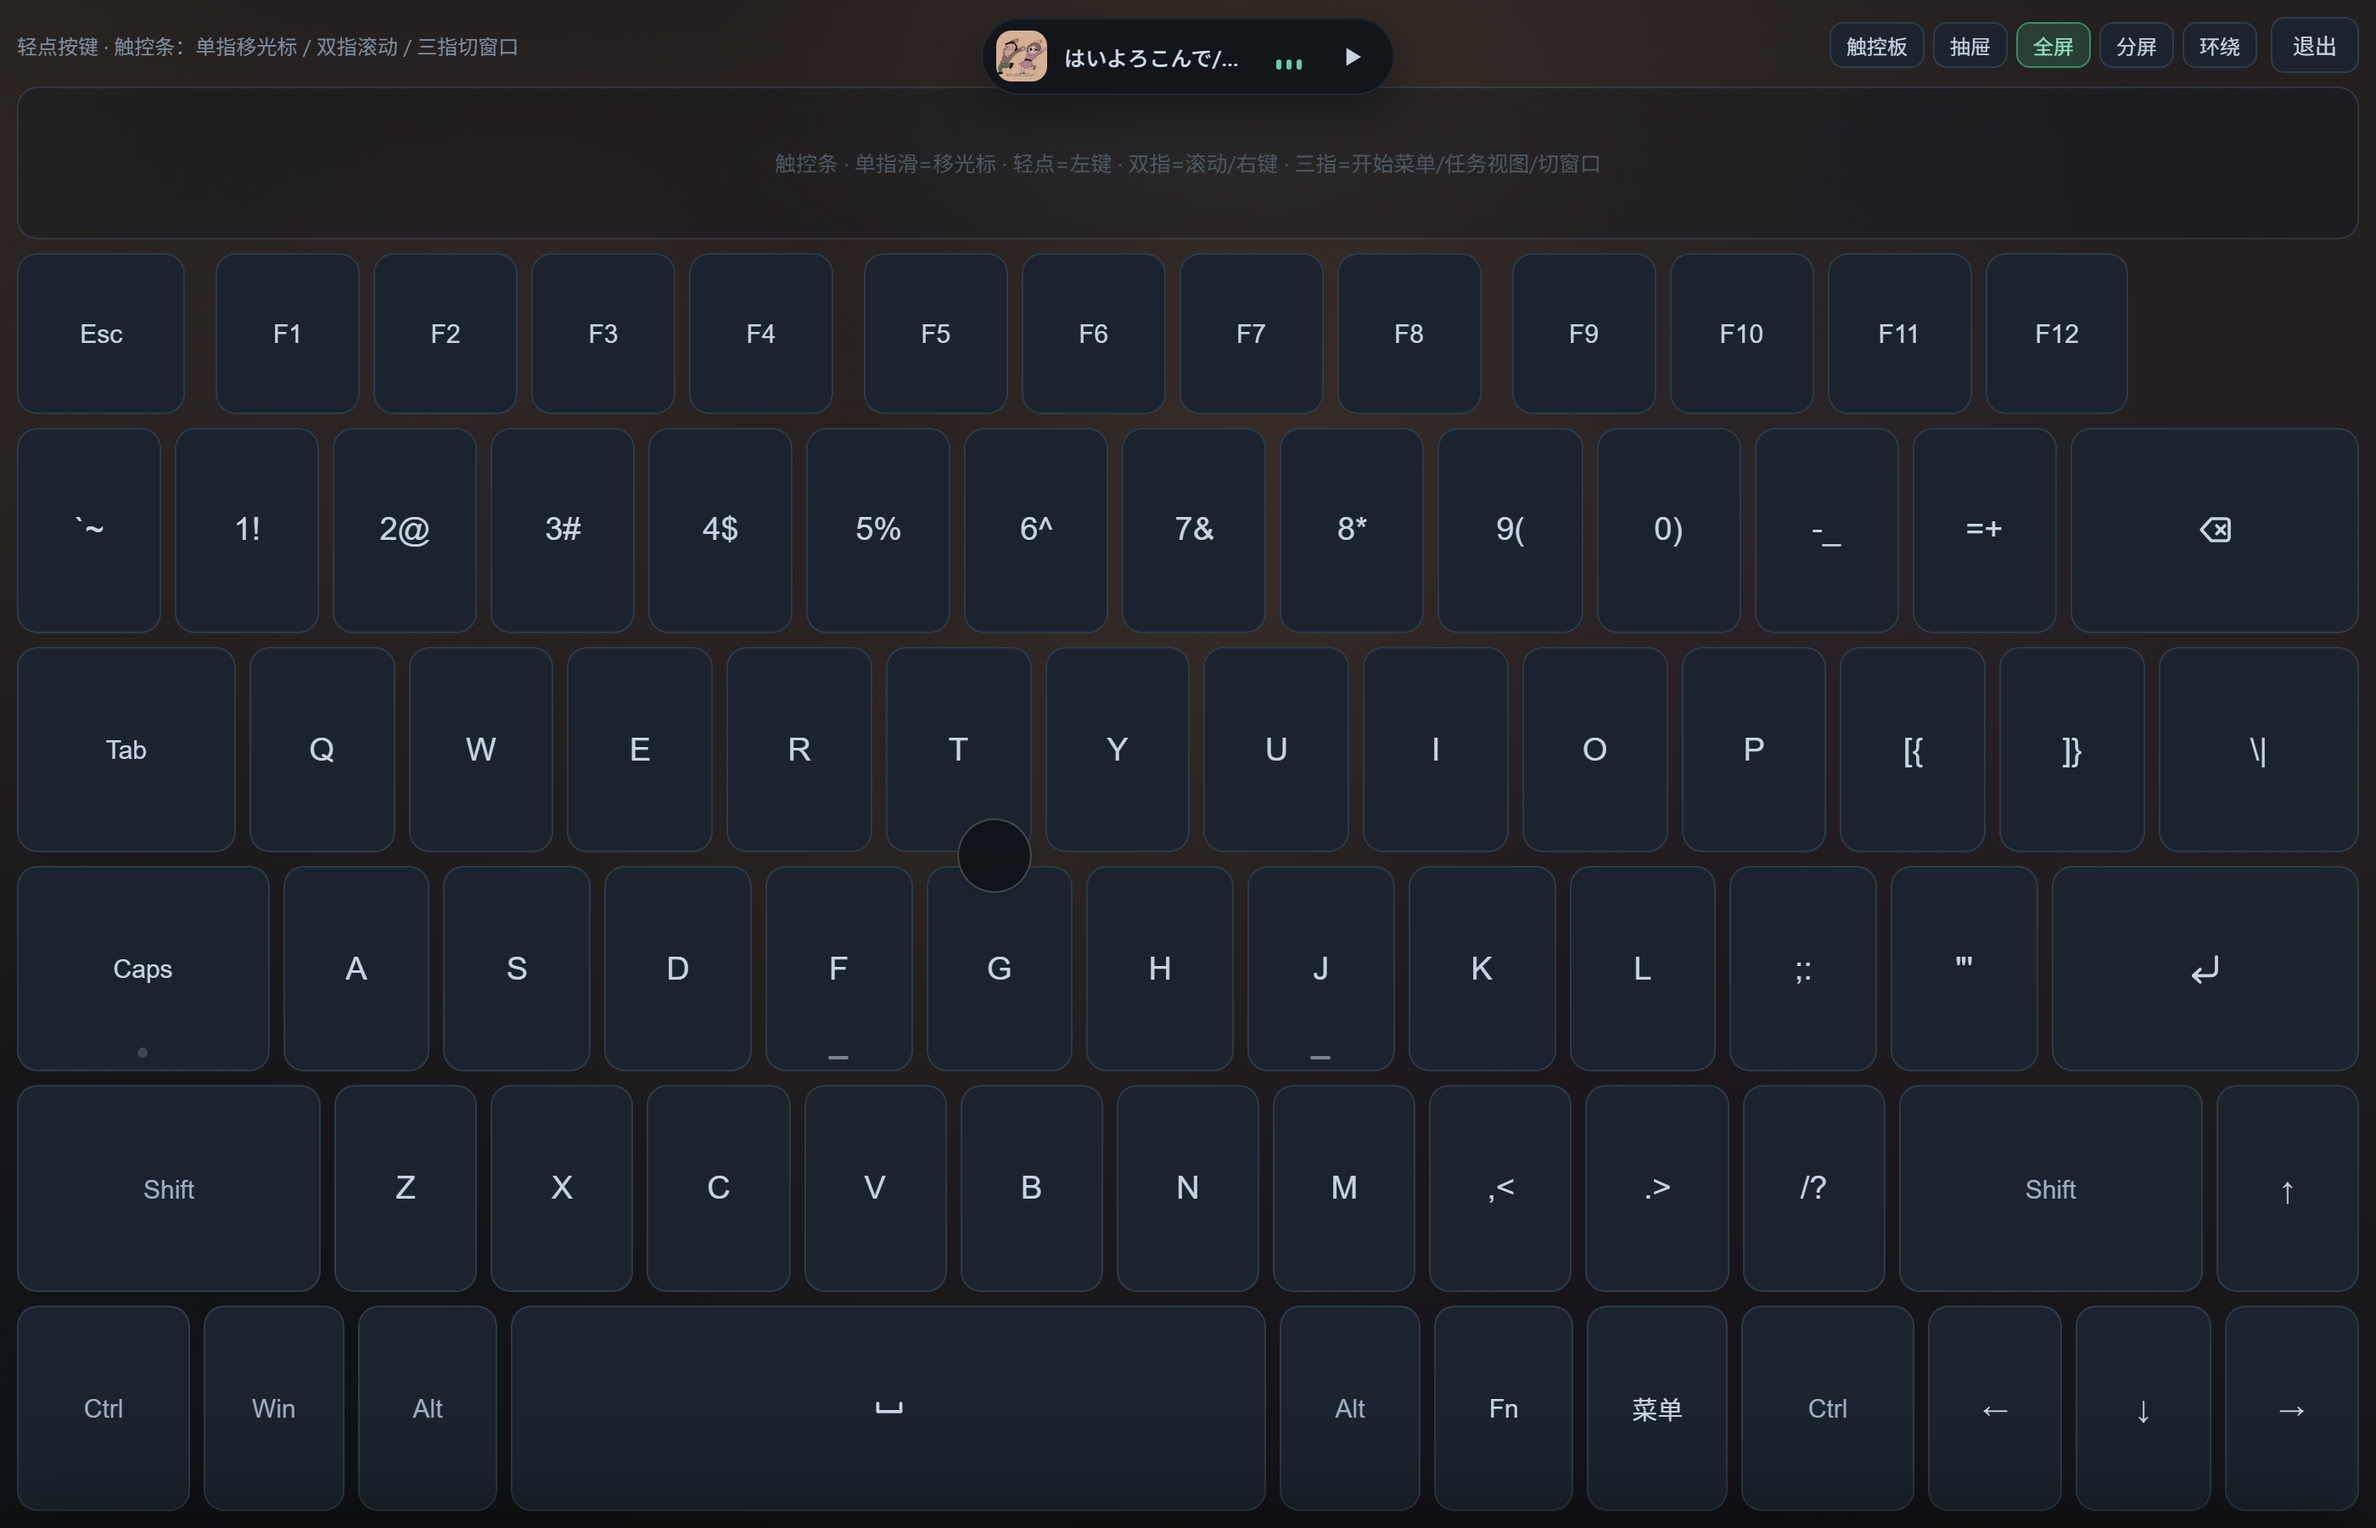
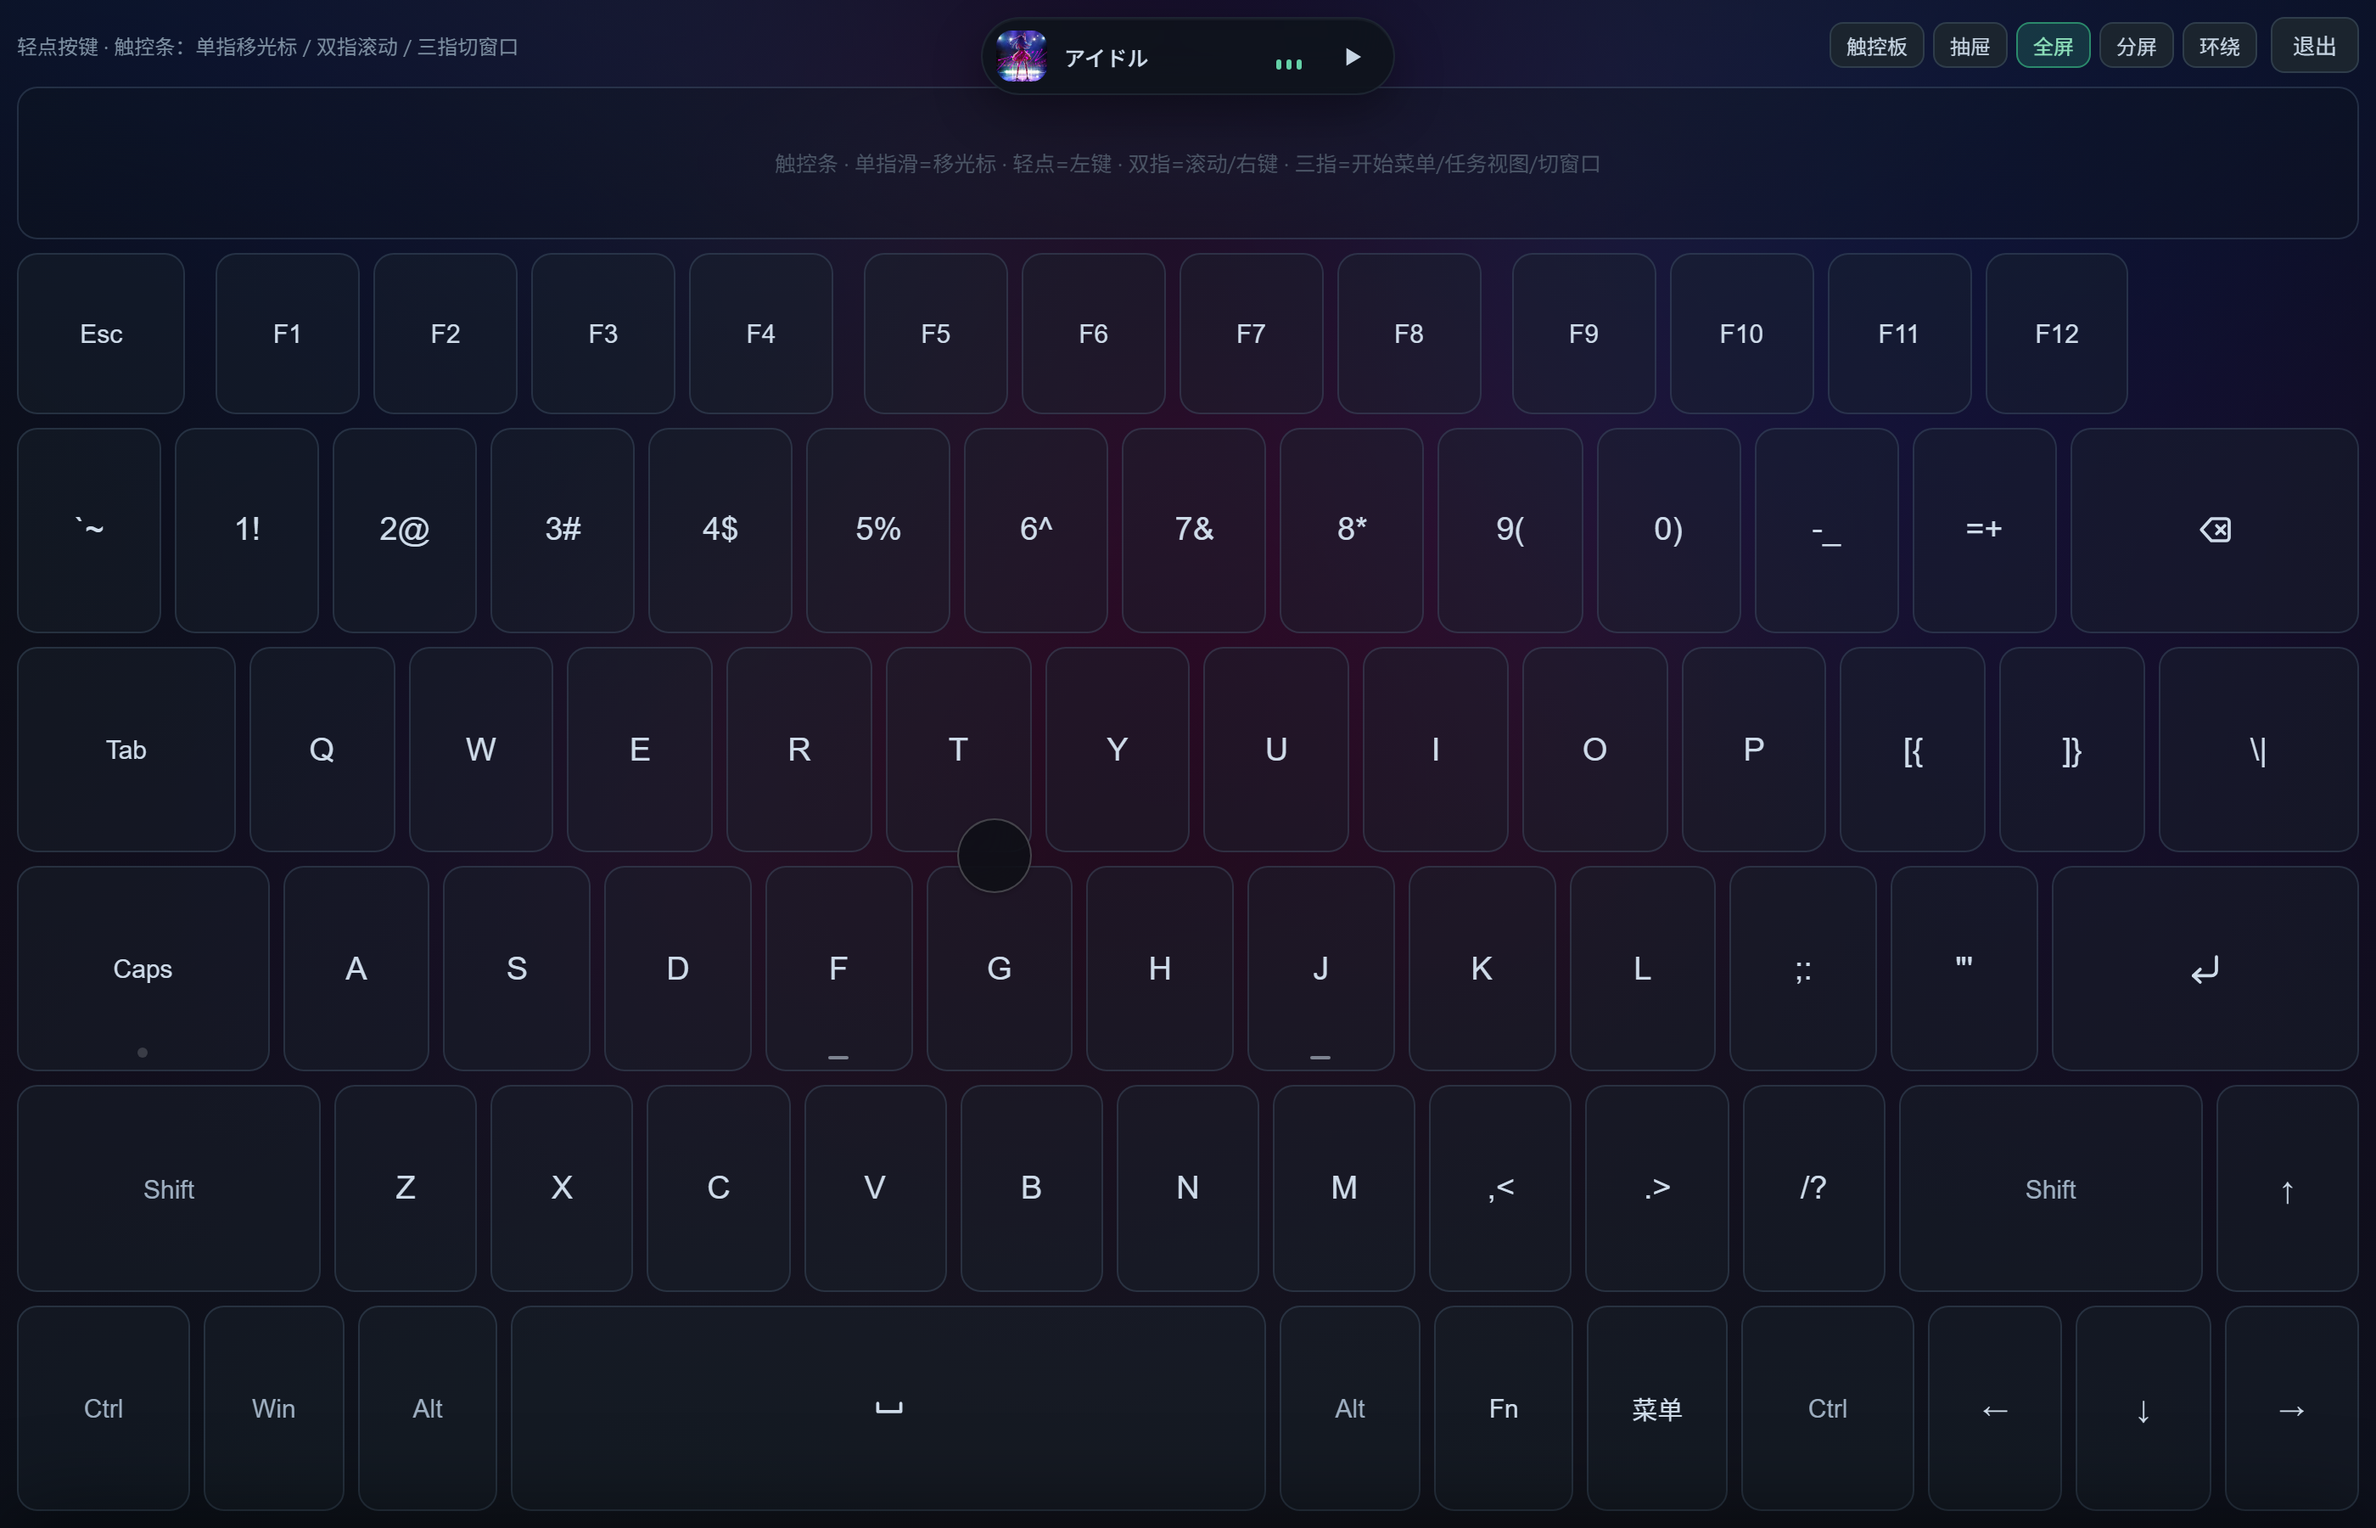
fix: 键帽半透明没生效（改到了 .mini）
上一版用 'background: #1b242e; color: #c7d5e3;' 做锚点 + replace(...,1)，
但这个色值在 .mini 和 .kbkey 里各有一份，替换命中的是 .mini，
所以触控板变了、键帽看起来完全没动。

- .mini 恢复 #1b242e（本来就不该改它）
- .kbkey 改用正则框住整个选择器块再替换，现在是真的 rgba(27,36,46,.42)

实测：三种键盘的键帽都能透出封面色调（紫/粉），触控板同样。

diff --git a/web/app.css b/web/app.css
@@ -684,7 +684,8 @@
   .kbkey {
     flex: 1 1 0; min-width: 0; height: 44px;
     border-radius: 9px; font-size: 15px;
-    background: #1b242e; color: #c7d5e3;
+    /* 半透明，让键盘背景那层封面图透上来 */
+    background: rgba(27, 36, 46, .42); color: #cfdcea;
     border: 1px solid rgba(120, 150, 180, .2);
     display: grid; place-items: center;
     -webkit-user-select: none; user-select: none;

diff --git a/交接文档.md b/交接文档.md
@@ -469,6 +469,13 @@ eleases/latest 的 rowser_download_url 下载一遍，
 
 ## 这一轮踩的坑
 
+0. **同一个色值出现在两个组件里**：`background: #1b242e; color: #c7d5e3;`
+   在 `.mini`（顶栏小按钮）和 `.kbkey`（键帽）里各有一份，
+   `str.replace(old, new, 1)` 只换第一处，结果改的是 `.mini`，键帽一点没动，
+   用户一眼就看出来"触控板变了、键帽没变"。
+   → 教训：改 CSS 前先 `s.count(锚点)`，多于 1 处就用**块级定位**（正则框住整个选择器块）
+   或者把锚点扩到能唯一定位的长度；改完再回读文件确认。
+
 1. **提权实例杀不掉**：早先测试 `/elevate` 留下的管理员实例（pid 9292）占着 8765，
    普通权限 `Stop-Process` 直接 `Access is denied`，连 `taskkill /f` 也不行。
    新实例抢不到端口会自动退到 8766，于是"以为重启了其实没有"。
